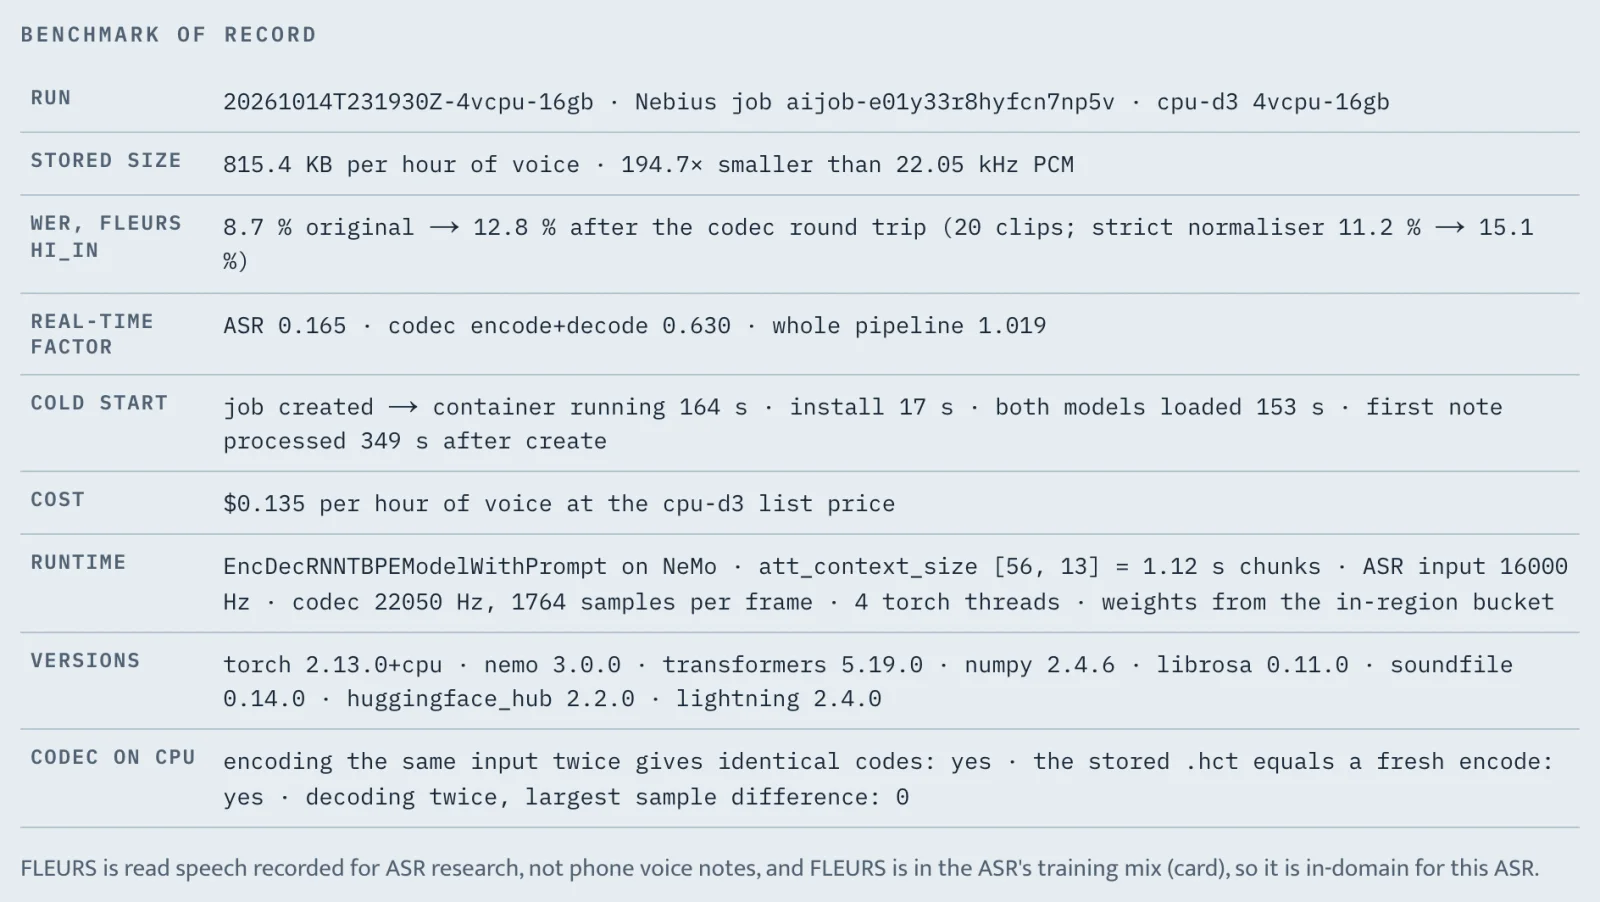
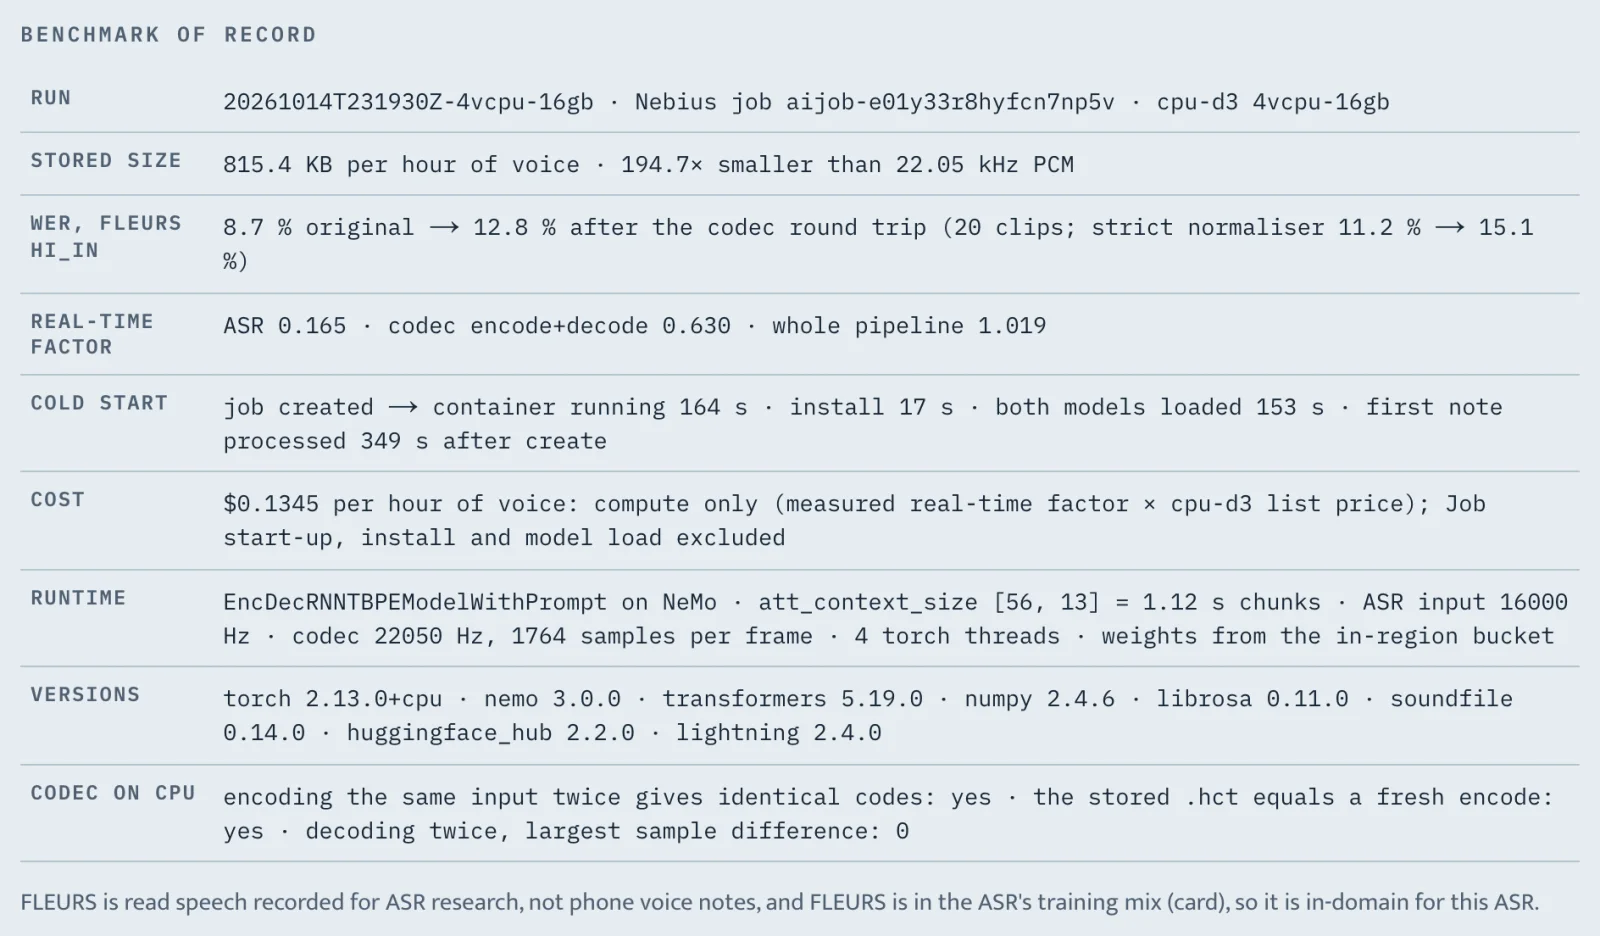
docs(site): re-capture the /proof screen after its cost line changed
The landing's /proof plate still printed the old $0.135 wording; it now shows the live page's
'$0.1345 per hour of voice: compute only …' row.

diff --git a/public/landing/index.html b/public/landing/index.html
@@ -560,7 +560,7 @@ seek: the waveform plays the original, the strip the kept note, and one playhead
     <p class="lab">What a judge opens · no account</p>
     <h2 id="screens-t"><a href="/judge" style="color:inherit">/judge</a>, then <a href="/proof" style="color:inherit">/proof</a>.</h2>
     <p class="lede">Screens of the deployed app, captured 2026-10-15 — not mock-ups. <code>/judge</code> plays the same note as the letter above, with its transcript and search; <code>/proof</code> prints what ran.</p>
-    <div class="plates"><figure class="plate "><a href="/judge"><img src="/landing/media/judge-deck.webp" width="2000" height="1520" loading="lazy" decoding="async" alt="The deployed /judge page: the FLEURS note&#x27;s token strip with Original and Kept buttons, the stored size, ASR agreement, Job ID and sha256, the Hindi transcript with its English gloss, and &#x27;Proposed 0 · kept 0&#x27;"></a><figcaption><span><b>/judge</b> — original vs kept, the transcript, the gates' verdict</span><code>/judge</code></figcaption></figure><div class="side"><figure class="plate "><a href="/proof"><img src="/landing/media/proof-record.webp" width="1600" height="902" loading="lazy" decoding="async" alt="The /proof page&#x27;s benchmark of record: run, stored size, WER, real-time factor, cold start, cost, runtime, versions, codec determinism"></a><figcaption><span><b>/proof</b> — the benchmark of record</span><code>/proof</code></figcaption></figure><div class="duo"><figure class="plate "><img src="/landing/media/app-agree-phone.webp" width="780" height="1368" loading="lazy" decoding="async" alt="The app&#x27;s first screen on a phone: the consent sentence in Hindi and English"><figcaption><span>Consent, Hindi + English</span></figcaption></figure><figure class="plate "><img src="/landing/media/app-judge-phone.webp" width="780" height="1038" loading="lazy" decoding="async" alt="The /judge page on a phone: the token strip and the Original and Kept buttons"><figcaption><span>/judge on a phone</span></figcaption></figure></div></div></div>
+    <div class="plates"><figure class="plate "><a href="/judge"><img src="/landing/media/judge-deck.webp" width="2000" height="1520" loading="lazy" decoding="async" alt="The deployed /judge page: the FLEURS note&#x27;s token strip with Original and Kept buttons, the stored size, ASR agreement, Job ID and sha256, the Hindi transcript with its English gloss, and &#x27;Proposed 0 · kept 0&#x27;"></a><figcaption><span><b>/judge</b> — original vs kept, the transcript, the gates' verdict</span><code>/judge</code></figcaption></figure><div class="side"><figure class="plate "><a href="/proof"><img src="/landing/media/proof-record.webp" width="1600" height="936" loading="lazy" decoding="async" alt="The /proof page&#x27;s benchmark of record: run, stored size, WER, real-time factor, cold start, cost, runtime, versions, codec determinism"></a><figcaption><span><b>/proof</b> — the benchmark of record</span><code>/proof</code></figcaption></figure><div class="duo"><figure class="plate "><img src="/landing/media/app-agree-phone.webp" width="780" height="1368" loading="lazy" decoding="async" alt="The app&#x27;s first screen on a phone: the consent sentence in Hindi and English"><figcaption><span>Consent, Hindi + English</span></figcaption></figure><figure class="plate "><img src="/landing/media/app-judge-phone.webp" width="780" height="1038" loading="lazy" decoding="async" alt="The /judge page on a phone: the token strip and the Original and Kept buttons"><figcaption><span>/judge on a phone</span></figcaption></figure></div></div></div>
   </div>
 </section>
 <section class="s" id="honest" aria-labelledby="honest-t">
